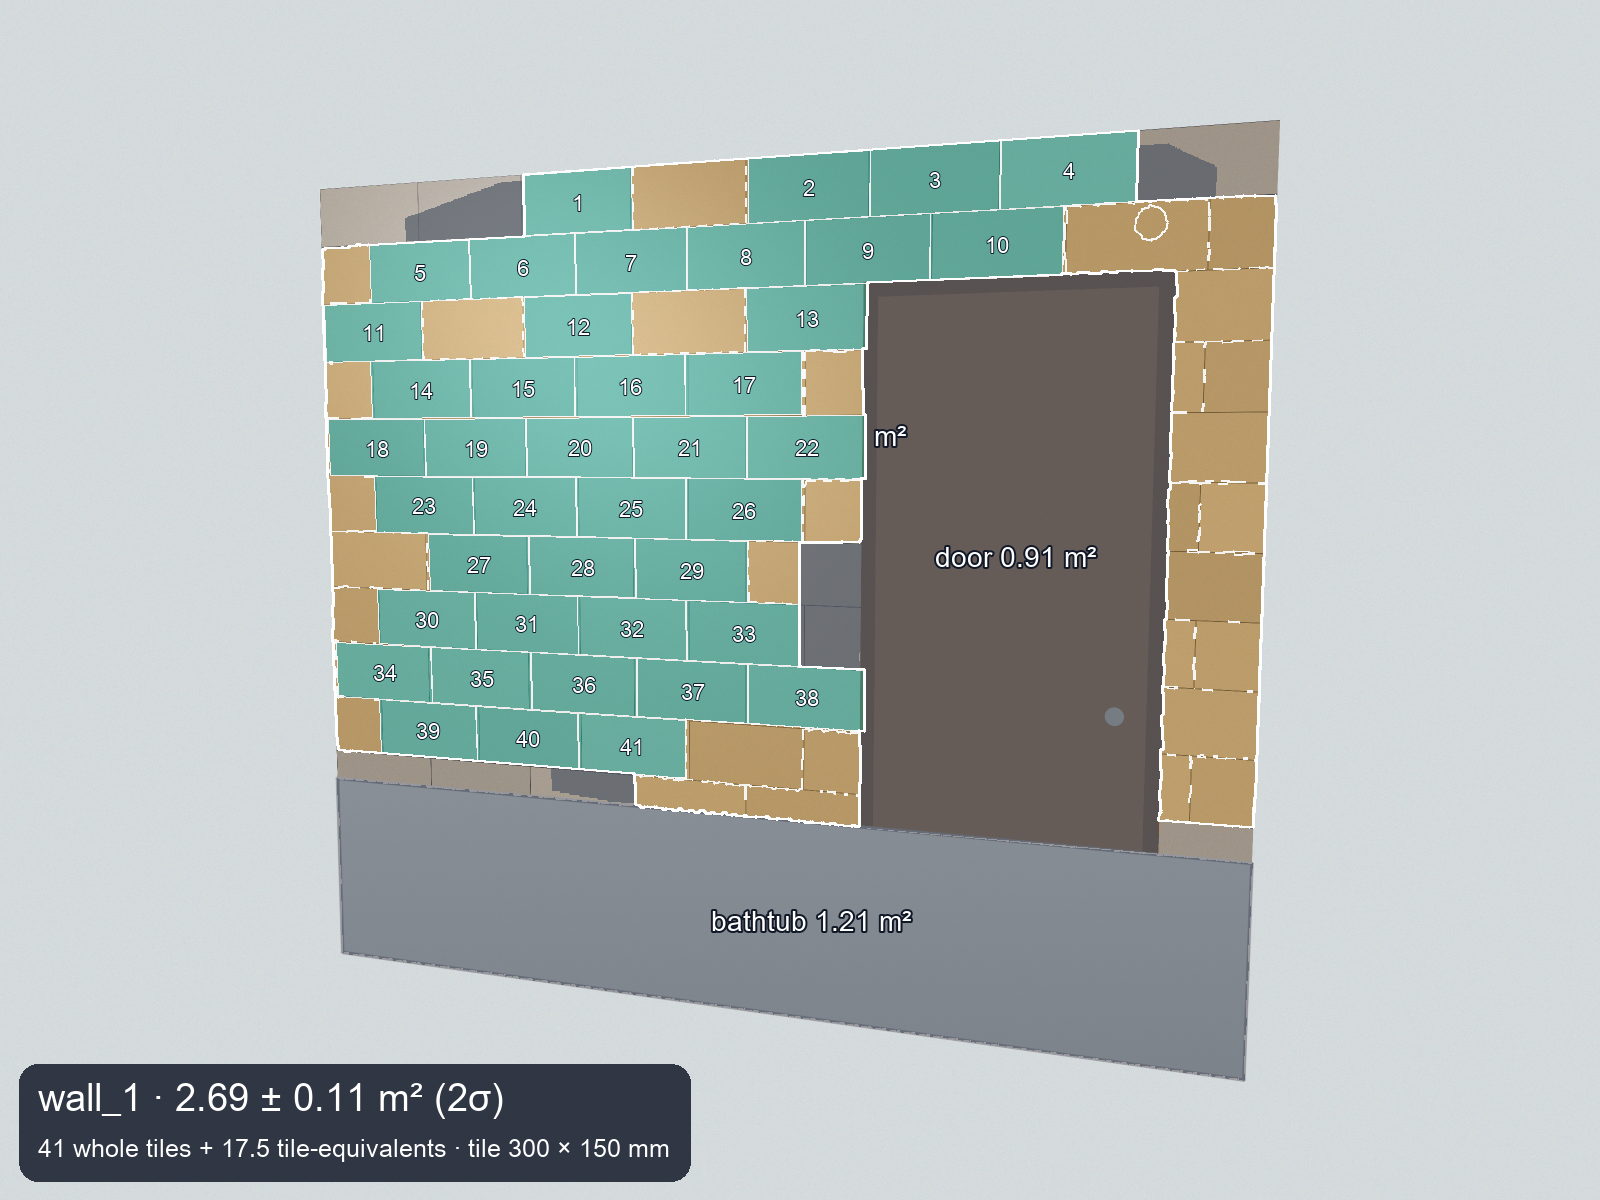
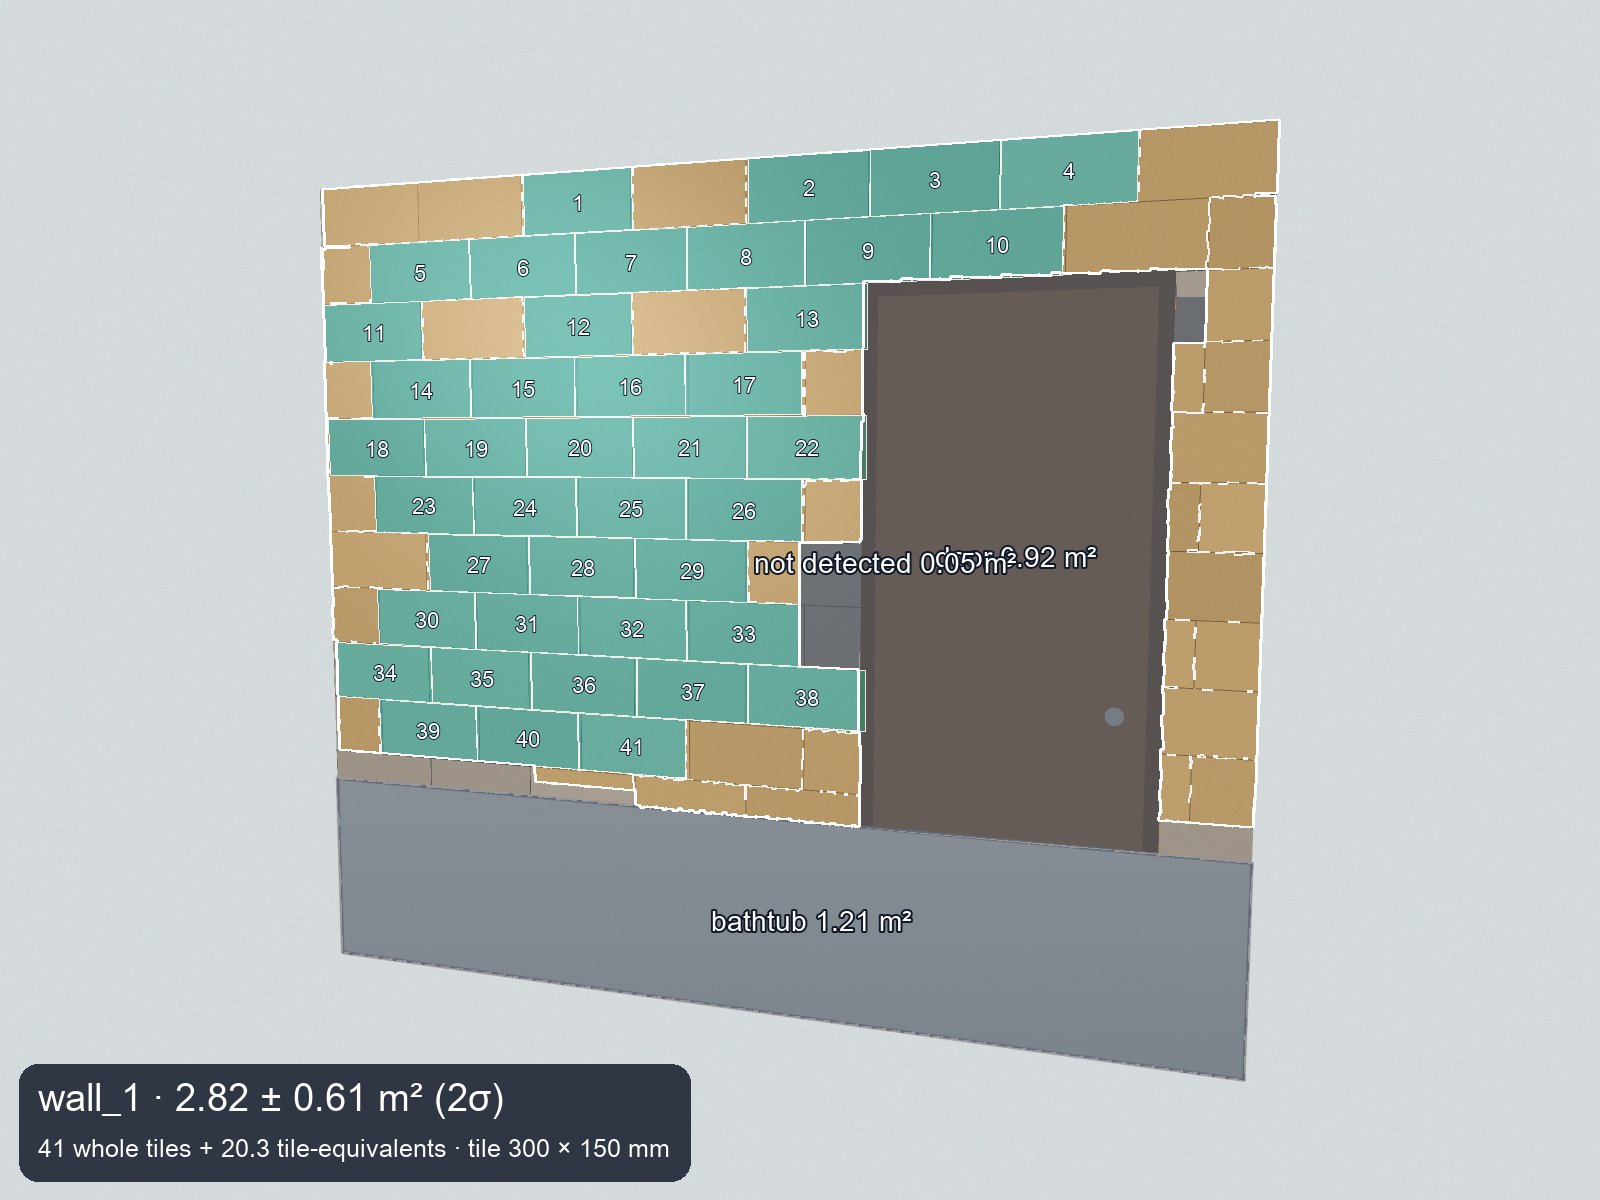
Use the agent's uncertainty bound everywhere; revalidate and document
Overlays and validation now show 2 x (sigma_random + sigma_system), the
bound agent/compare.py applies to one wall. The masks sweep adds a tiled
neighbouring wall or floor (seen by SAM, no floor mask) to a quarter of the
walls. Re-run on the final code: 34/40 masks walls and 11/16 SAM renders
measured, all within 2 sigma (max 4.6 % and 2.4 %); partial and refused walls
carry the large errors. READMEs, the warning table (uncounted_tiles,
exclusion_overlaps_tiles) and the field protocol are updated; the room
sample reuses the wall overlay instead of a byte-identical copy.

diff --git a/validation/synthetic_eval.py b/validation/synthetic_eval.py
@@ -9,7 +9,6 @@ tiled area, which is what one photo can show; billing truth also includes hidden
 import argparse
 import csv
 import json
-import math
 from pathlib import Path
 
 import numpy as np
@@ -18,7 +17,13 @@ from PIL import Image
 from measure.sam_client import ROOT, Segmentation
 from measure.wall import measure_wall
 from schemas.measure import TileSpec
-from validation.synthetic import SyntheticWall, fake_concept, fake_detections, render_wall
+from validation.synthetic import (
+    SyntheticWall,
+    extra_plane,
+    fake_concept,
+    fake_detections,
+    render_wall,
+)
 
 OUT = ROOT / "outputs/synthetic_eval"
 KIND = {"masks": "synthetic-masks", "sam": "synthetic-sam"}
@@ -78,6 +83,11 @@ def random_walls(n, seed=0):
     return walls
 
 
+def neighbour(wall):
+    """A tiled neighbouring plane for one wall in four of the masks sweep."""
+    return ("side", "floor", None, None)[wall.seed % 4]
+
+
 def _mask_segmenter(render):
     """SAM-like masks of moderate difficulty, fixed per wall seed; concepts from geometry."""
     rng = np.random.default_rng(render.wall.seed)
@@ -89,6 +99,17 @@ def _mask_segmenter(render):
         merge_rate=float(rng.uniform(0, 0.05)),
         false_positives=int(rng.integers(0, 9)),
     )
+    kind = neighbour(render.wall)
+    if kind:
+        # A tiled neighbouring wall or floor in the frame, and SAM sees its tiles too (no floor
+        # mask): none of it may count.
+        side = "left" if rng.random() < 0.5 else "right"
+        try:
+            tiles += extra_plane(
+                render, kind, float(rng.uniform(300, 1500)), side=side, seed=render.wall.seed
+            )[0]
+        except ValueError:  # the camera cannot see that plane from inside the room
+            pass
 
     def segment(image, concepts):
         found = {concept: [] for concept in concepts}
@@ -127,7 +148,8 @@ def sweep(walls, mode, *, out_dir=OUT, measure=measure_wall):
 
 def _row(wall, wall_id, render, result, kind):
     measured = result.tiled_area_m2
-    sigma = None if measured is None else math.hypot(result.sigma_random_m2, result.sigma_system_m2)
+    # One wall's bound in agent/compare.py adds random and systematic sigma linearly.
+    sigma = None if measured is None else result.sigma_random_m2 + result.sigma_system_m2
     visible = render.visible_tiled_area_m2
     error = None if measured is None else measured - visible
     return {
@@ -149,6 +171,7 @@ def _row(wall, wall_id, render, result, kind):
         "gloss": wall.gloss,
         "door": wall.door is not None,
         "occluder": wall.occluder_h_mm > 0,
+        "neighbour": (neighbour(wall) or "") if kind == KIND["masks"] else "",
         "overlay": result.overlay_png,
     }
 

diff --git a/tests/test_validation_scripts.py b/tests/test_validation_scripts.py
@@ -108,7 +108,7 @@ def test_field_table(tmp_path):
         ExcludedRegion(label="door", area_m2=1.6, reason="opening"),
     ]
     results = {
-        "w1": wall("w1", 4.12, 0.03, 0.04),
+        "w1": wall("w1", 4.12, 0.02, 0.03),
         "w2": wall("w2", 4.90, 0.06, 0.08, excluded=tub_and_door),
     }
     calls = []
@@ -127,12 +127,12 @@ def test_field_table(tmp_path):
     w1, w2 = table["walls"]
     assert w1["error_pct"] == pytest.approx(3.0) and w1["abs_error_pct"] == pytest.approx(3.0)
     assert w2["error_pct"] == pytest.approx(-2.0) and w2["abs_error_pct"] == pytest.approx(2.0)
-    assert w1["within_2sigma"] is False  # 0.12 > 2·hypot(0.03, 0.04) = 0.10
-    assert w2["within_2sigma"] is True  # 0.10 ≤ 2·hypot(0.06, 0.08) = 0.20
+    assert w1["within_2sigma"] is False  # 0.12 > 2·(0.02 + 0.03) = 0.10, as compare.py
+    assert w2["within_2sigma"] is True  # 0.10 ≤ 2·(0.06 + 0.08) = 0.28
     (room,) = table["rooms"]
     assert room["laser_m2"] == pytest.approx(9.0) and room["measured_m2"] == pytest.approx(9.02)
     assert room["abs_error_pct"] == pytest.approx(0.22, abs=0.01)
-    assert room["sigma_m2"] == pytest.approx(0.187, abs=1e-3)  # sqrt(.03² + .06²) + .04 + .08
+    assert room["sigma_m2"] == pytest.approx(0.173, abs=1e-3)  # sqrt(.02² + .06²) + .03 + .08
     assert room["complete"] is True and room["meets_3pct_gate"] is True
     summary = table["summary"]
     assert summary["n_walls"] == 2 and summary["n_measured"] == 2

diff --git a/validation/make_samples.py b/validation/make_samples.py
@@ -52,12 +52,12 @@ def main():
         [(w, str(p)) for w, p in paths.items()], TILE, output_dir=work, segmenter=segment
     )
     for index, item in enumerate(room.walls):
-        shutil.copy(item.overlay_png, SAMPLES / f"room_example_{item.wall_id}.png")
+        # wall_1 is measured exactly as in measure_example: reuse that overlay, no duplicate.
+        name = "measure_example.png" if item.wall_id == "wall_1" else f"room_{item.wall_id}.png"
+        if item.wall_id != "wall_1":
+            shutil.copy(item.overlay_png, SAMPLES / name)
         room.walls[index] = item.model_copy(
-            update={
-                "image_path": f"{item.wall_id}.png",
-                "overlay_png": f"data/samples/room_example_{item.wall_id}.png",
-            }
+            update={"image_path": f"{item.wall_id}.png", "overlay_png": f"data/samples/{name}"}
         )
     (SAMPLES / "room_example.json").write_text(room.model_dump_json(indent=2) + "\n")
     truth = {w: round(r.visible_tiled_area_m2, 3) for w, r in renders.items()}

diff --git a/validation/run_validation.py b/validation/run_validation.py
@@ -126,7 +126,7 @@ def _wall(row, measure, photo_dir):
     if result.tiled_area_m2 is None:
         return wall
     sigma_random, sigma_system = result.sigma_random_m2 or 0.0, result.sigma_system_m2 or 0.0
-    sigma = math.hypot(sigma_random, sigma_system)
+    sigma = sigma_random + sigma_system  # one wall's bound in agent/compare.py
     wall.update(
         sigma_m2=round(sigma, 4), sigma_random_m2=sigma_random, sigma_system_m2=sigma_system
     )

diff --git a/measure/overlay.py b/measure/overlay.py
@@ -273,7 +273,8 @@ def _dashed(draw, points, color, dash=8.0):
 
 
 def _caption_lines(wall_id, fit, area, tile):
-    interval = 2 * float(np.hypot(area.sigma_random_m2, area.sigma_system_m2))
+    # The bound agent/compare.py applies to one wall: 2 x (random + systematic).
+    interval = 2 * float(area.sigma_random_m2 + area.sigma_system_m2)
     if tile is not None:
         size = f"{tile.width_mm:g} × {tile.height_mm:g} mm"
     else:

diff --git a/measure/README.md b/measure/README.md
@@ -30,26 +30,32 @@ and [`room_example.json`](../data/samples/room_example.json) with their overlays
    the tile lattice (pitch = tile + joint). Scale comes from the pitch, not from mask edges.
    Stack and running bond, both orientations; merged masks, cut tiles and tiles from other
    planes are rejected.
-3. **Area** (`area.py`): matched tiles count one pitch cell each; cut tiles, borders and
-   bands count when their rectified mask is an aligned rectangle on the wall's joint lines or
-   next to counted tiles. Single missed tiles are bridged, row ends cut short by missed edge
-   tiles follow their neighbours (≤2 tiles, adds uncertainty), and unexplained gaps inside the
-   counted outline are reported, never silently dropped. Exclusion masks (and the floor) block
-   counting.
-4. **Overlay** (`overlay.py`): teal = matched tiles (numbered), amber = other counted area,
-   dashed = inferred, grey = exclusions with their area, caption `A ± 2σ m² (2σ)`.
+3. **Area** (`area.py`): matched tiles count one pitch cell each. Other masks count only when
+   they are at most one tile, keep a constant thickness once rectified (a tile of a neighbouring
+   wall or the floor narrows towards its own vanishing point) and lie on this wall's joint lines
+   (a cut row shares its joint with the matched rows). Single missed tiles are bridged, row ends
+   cut short by missed edge tiles follow their neighbours (≤2 tiles), holes up to 0.6 m² are
+   completed; all inferred area adds half its size to σ. Larger gaps are reported, never
+   silently dropped. Door/window/mirror masks lying mostly on matched tiles are ignored (the
+   tiles are visible); the floor mask only blocks masks beyond the wall.
+4. **Probe** (`probe.py`): the ring of lattice cells around the counted area is checked in the
+   photo; cells with the matched tiles' colour and joint contrast mean SAM missed tiles.
+5. **Overlay** (`overlay.py`): teal = matched tiles (numbered), amber = other counted area,
+   dashed = inferred, grey = exclusions with their area, caption `A ± 2(σr + σs) m² (2σ)`, the
+   bound `compare.py` applies to one wall.
 
 ## Statuses — what the agent should do
 
 | `status` | Meaning | Agent behaviour |
 | --- | --- | --- |
-| `measured` | Lattice fits, whole tiled wall in frame | Compare `tiled_area_m2 ± 2σ` + hidden allowance (`agent/compare.py`) |
+| `measured` | Lattice fits, whole tiled wall in frame, no sign of missed tiles | Compare `tiled_area_m2 ± 2σ` + hidden allowance (`agent/compare.py`) |
 | `partial` | A number exists but is not trustworthy for over-billing | `measure_room` lists the wall in `unverified_walls`, so `compare.py` answers `incomplete`; ask for a reshoot with the reasons |
 | `unavailable` | No honest number; area fields are `None` | Ask for a reshoot; never treat as 0 m² |
 
 | Warning | Status effect | Tell the user |
 | --- | --- | --- |
-| `wall_out_of_frame` | partial | Step back so the whole tiled wall plus a margin is in the photo |
+| `wall_out_of_frame` | partial | The counted tiles reach (or come within half a tile of) the photo edge: step back so the whole tiled wall plus a margin is in the photo |
+| `uncounted_tiles` | partial | Tiles seem to continue beyond the counted area (missed by segmentation): retake in even light, closer |
 | `undetected_area` | partial | Part of the wall was not recognised (glare, cover): retake in even light |
 | `high_residual` | partial | Joints don't fit one flat grid: main camera 1×, frontal, one wall per photo |
 | `merged_tiles` | — | Informational: SAM merged neighbouring tiles; the lattice compensates |
@@ -84,8 +90,10 @@ and [`room_example.json`](../data/samples/room_example.json) with their overlays
   MP4 of the tiles lighting up (video and X).
 - Needs `META_API_KEY` in `.env` for uncached photos. Responses and decoded masks are cached in
   `data/cache/sam_benchmark/`, so a repeated photo costs nothing and returns identical results.
-- Mask decoding runs in worker processes: scripts must use `if __name__ == "__main__":`
-  (otherwise it falls back to one process, slower). `ACTCHECK_SAM_WORKERS=1` disables workers.
+- Mask decoding runs in up to 4 worker processes (`ACTCHECK_SAM_WORKERS`, 2 in the container,
+  1 disables them). Scripts must use `if __name__ == "__main__":`; `segment()` refuses to run
+  inside a worker, so an unguarded script cannot repeat SAM requests. Photos up to 200 MP are
+  accepted (large JPEGs decode at a reduced scale).
   `ACTCHECK_FONT` sets a TrueType font for overlays (else system Arial/DejaVu, else ASCII text).
 - Cost: 15 SAM images per wall (1 + 9 crops + 4 exclusions + floor) ≈ $0.04. Time: a few seconds
   when cached; uncached roughly 30–60 s per wall (SAM latency ~9 s per request, 6 in parallel).
@@ -93,13 +101,15 @@ and [`room_example.json`](../data/samples/room_example.json) with their overlays
 ## Validation (see [validation/README.md](../validation/README.md))
 
 - **Synthetic, real SAM 3.1** — 16 rendered walls with exact areas: 11 `measured`, median error
-  0.88 %, max 1.33 %, all within 2σ; 4 `partial` (SAM saw only part of the wall, all flagged);
-  1 `unavailable` (25 mm mosaic).
-- **Synthetic, SAM-like masks** — 40 random walls: 35 `measured`, median 0.57 %, max 4.86 %, all
-  within 2σ.
+  0.89 %, max 2.4 %, all within 2(σr + σs); 4 `partial` (SAM saw only part of the wall, all
+  flagged); 1 `unavailable` (25 mm mosaic).
+- **Synthetic, SAM-like masks** — 40 random walls, a quarter with a tiled neighbouring wall or
+  floor in the frame: 34 `measured`, median 0.61 %, max 4.6 %, all within 2σ; 2 `partial`;
+  4 `unavailable` (too few tiles).
 - **Reference photos** (20 web photos, no physical scale): 14 `partial`, 6 `unavailable`, no
-  area reported; overlays show plausible single-wall fits.
+  area reported.
 - **Field**: not yet measured. `validation/FIELD_PROTOCOL.md` describes the 1–2 wall check.
 
-Synthetic accuracy is not field accuracy. Unsupported: curved walls, herringbone, walls spanning
-several planes in one photo, mosaic tiles smaller than ~30 px in the photo.
+Synthetic accuracy is not field accuracy. Unsupported: curved walls, herringbone, mosaic tiles
+smaller than ~30 px in the photo. Decorative bands of another tile size are bridged rather than
+counted tile by tile. Occluders SAM does not recognise get no hidden-area allowance.

diff --git a/validation/README.md b/validation/README.md
@@ -113,18 +113,21 @@ uv run python -m validation.synthetic_eval --mode sam            # 16 renders th
 
 | Mode | Walls | measured | partial | unavailable | measured: median / max abs error | within 2σ |
 | --- | ---: | ---: | ---: | ---: | --- | ---: |
-| SAM-like masks (dropout ≤15 %, merges, false positives) | 40 | 35 | 3 | 2 | 0.57 % / 4.86 % | 35/35 |
-| SAM 3.1 on renders | 16 | 11 | 4 | 1 | 0.88 % / 1.33 % | 11/11 |
+| SAM-like masks (dropout ≤15 %, merges, false positives; ¼ with a tiled neighbouring wall or floor) | 40 | 34 | 2 | 4 | 0.61 % / 4.6 % | 34/34 |
+| SAM 3.1 on renders | 16 | 11 | 4 | 1 | 0.89 % / 2.4 % | 11/11 |
 
-Partial walls carry large errors by design (SAM saw part of the wall; all were flagged), and the
-25 mm mosaic render was refused. Renders are cleaner than real bathrooms: this is evidence that
-the geometry is right, not field accuracy.
+"Within 2σ" uses 2(σr + σs), the bound `agent/compare.py` applies to one wall. Partial walls
+carry large errors by design (SAM saw part of the wall; all were flagged), and the 25 mm mosaic
+render was refused. Renders are cleaner than real bathrooms: this is evidence that the geometry
+is right, not field accuracy.
 
 **Planted-inflation ROC** (`roc.py`). Bills inflated 0–30 % over known truth; the agent's rule
 `billed > measured + k·σ + hidden`, walls that are not `measured` never flag (the agent answers
-`incomplete`). At k = 2: SAM-like masks — 0 % false alarms, 92 % of ≥20 % inflations caught (hidden
-allowances absorb smaller ones); SAM renders — 1 false alarm in 15 honest bills, from a synthetic
-bathtub band SAM did not recognise (no hidden allowance). These are planted, not observed bills.
+`incomplete`). At k = 2: SAM-like masks — no false alarms, 58 % of 20 % inflations caught (hidden
+and inferred-area allowances absorb smaller ones on these deliberately degraded masks); SAM
+renders — 67 % of 5 % inflations caught (every measured wall), 1 false alarm in 15 honest bills,
+from a synthetic bathtub band SAM did not recognise (no hidden allowance). Planted, not observed
+bills.
 
 ```sh
 uv run python -m validation.roc outputs/synthetic_eval/roc_input_sam.json --out outputs/validation/roc_synthetic_sam.json

diff --git a/README.md b/README.md
@@ -75,7 +75,7 @@ Private photos, consent records, and room notes stay in `data/private/`. Publish
 ## Readiness
 
 - Preparation checks cover locked offline dependency sync, Python 3.12 imports, valid TOML, and Git exclusions for secrets/private data. Frontend build and browser checks are documented in its README.
-- Measurement: `measure_wall` / `measure_room` / `count_objects` implement team plan §5.1 on the shared schema; 121 offline tests pass. On 16 synthetic renders segmented by SAM 3.1, the 11 walls reported as `measured` are within 1.33 % (all within 2σ); the other five are flagged `partial` or refused. Synthetic accuracy is not field accuracy.
+- Measurement: `measure_wall` / `measure_room` / `count_objects` implement team plan §5.1 on the shared schema; 121 offline tests pass. On 16 synthetic renders segmented by SAM 3.1, the 11 walls reported as `measured` are within 2.4 % (all within 2σ); the other five are flagged `partial` or refused. Tiles of a neighbouring wall or floor are not counted, and missed tiles make a wall `partial`. Synthetic accuracy is not field accuracy.
 - Field check: 1–2 laser-measured walls are planned ([protocol](validation/FIELD_PROTOCOL.md)); no field data exists yet. The 20 collected web photos have no physical scale and only show fit/refusal behaviour.
 - The standalone SAM benchmark has been exercised on the collected photos. Credentials stay in the ignored local `.env`.
 - Meta API reference material is available in `.claude/skills/meta-model-api/SKILL.md`. Model access setup and unresolved details are recorded in `docs/MODEL_ACCESS.md`.

diff --git a/validation/FIELD_PROTOCOL.md b/validation/FIELD_PROTOCOL.md
@@ -33,7 +33,7 @@ git-ignored.
 ## Photo: one per wall
 
 - Get the **whole tiled area in frame, with a margin on every side** (some ceiling, floor or
-  neighbouring wall visible). If the photo edge cuts tiles, the wall is reported `partial`, and a
+  neighbouring wall visible; tiles of a neighbouring wall or the floor are not counted). If the photo edge cuts tiles, the wall is reported `partial`, and a
   partial wall can't pass the gate.
 - Use the **main camera (1×)**, not the ultra-wide (0.5×), which bends the grout lines.
 - Shoot **as frontally as possible**: face the middle of the wall from 2–3 m with the phone
